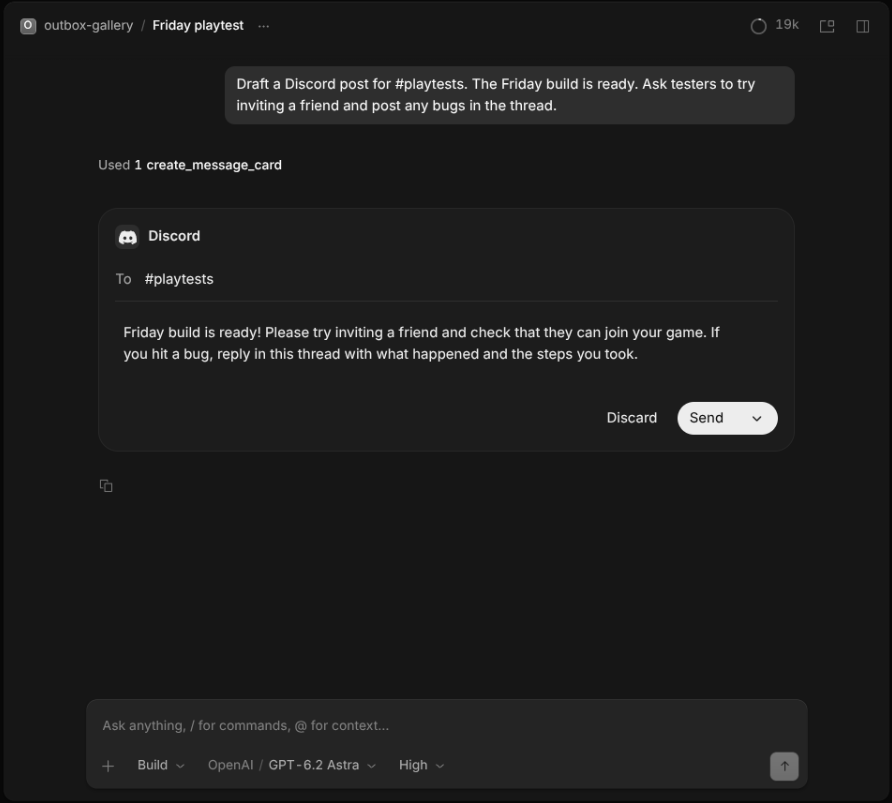
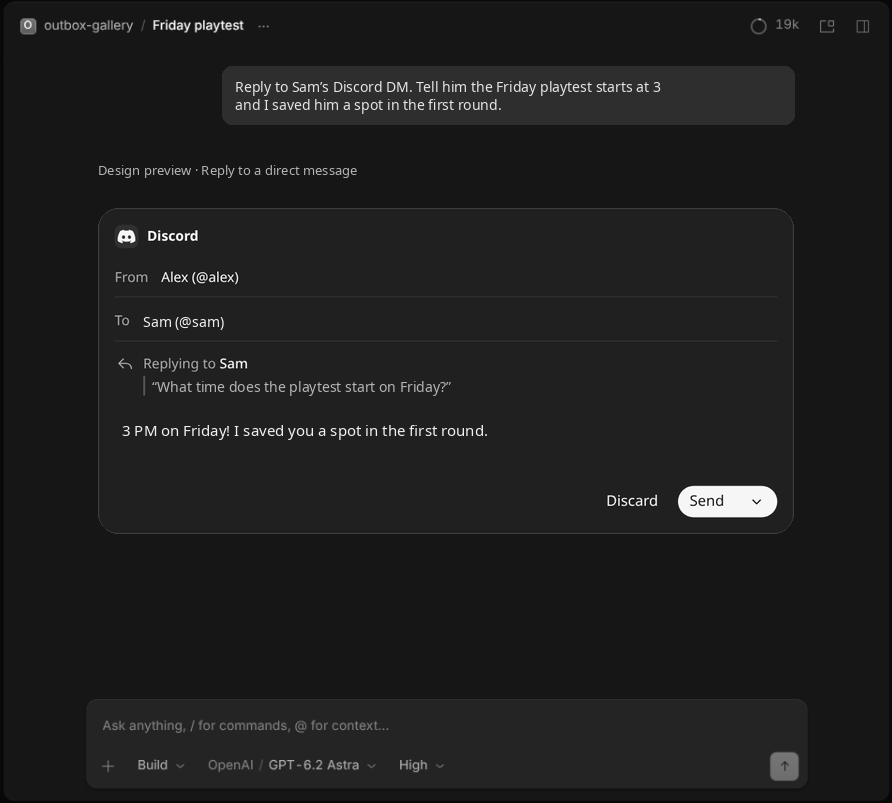
docs: update the README chat gallery (#3)
Publish the reviewed README and four-frame gallery: email, a Discord DM
reply design preview, a highlighted Slack mention, and iMessage.

diff --git a/README.md b/README.md
@@ -12,18 +12,11 @@ opencode plugin add github:abran-labs/opencode-outbox
 
 Ask your agent to draft a message. Edit the draft directly on its local card. Send it.
 
-![OpenCode chat cycling through an email invitation, a Discord channel post, a group reply design preview, and a Telegram reminder](.github/assets/chat/preview.gif)
-
-View a still: [Email](.github/assets/chat/mail.png) · [Discord channel](.github/assets/chat/discord.png) · [Group reply (design preview)](.github/assets/chat/group-reply.png) · [Telegram](.github/assets/chat/telegram.png)
-
-In the group reply preview, **To** is the group chat, **Replying to Sam** quotes the message being answered, and **@Maya** stays in the draft itself.
-
-For a browser chat or another custom destination, ask “Draft a message for the support chat that I can copy and paste.” The card uses the destination name, a generic chat icon, and **Copy**. No messaging connector is needed.
+![OpenCode chat cycling through an email invitation, a Discord DM reply design preview quoting Sam’s question, a Slack message mentioning @Maya, and an iMessage to the Friday Crew group chat](.github/assets/chat/preview.gif)
 
 | Action | What it does |
 | --- | --- |
 | Send | Asks the agent to deliver your exact draft through its usual messaging MCP. (e.g. https://github.com/taylorwilsdon/google_workspace_mcp) |
-| Send ▾ | **Disable drafts** skips Outbox review for explicit send requests across sessions and agents. **Allow recipient** limits that shortcut to a recipient. Asking for a draft always creates one. |
 | Copy | Copies your exact draft to your clipboard. |
 | Discard | Closes the draft without sending it. |
 
